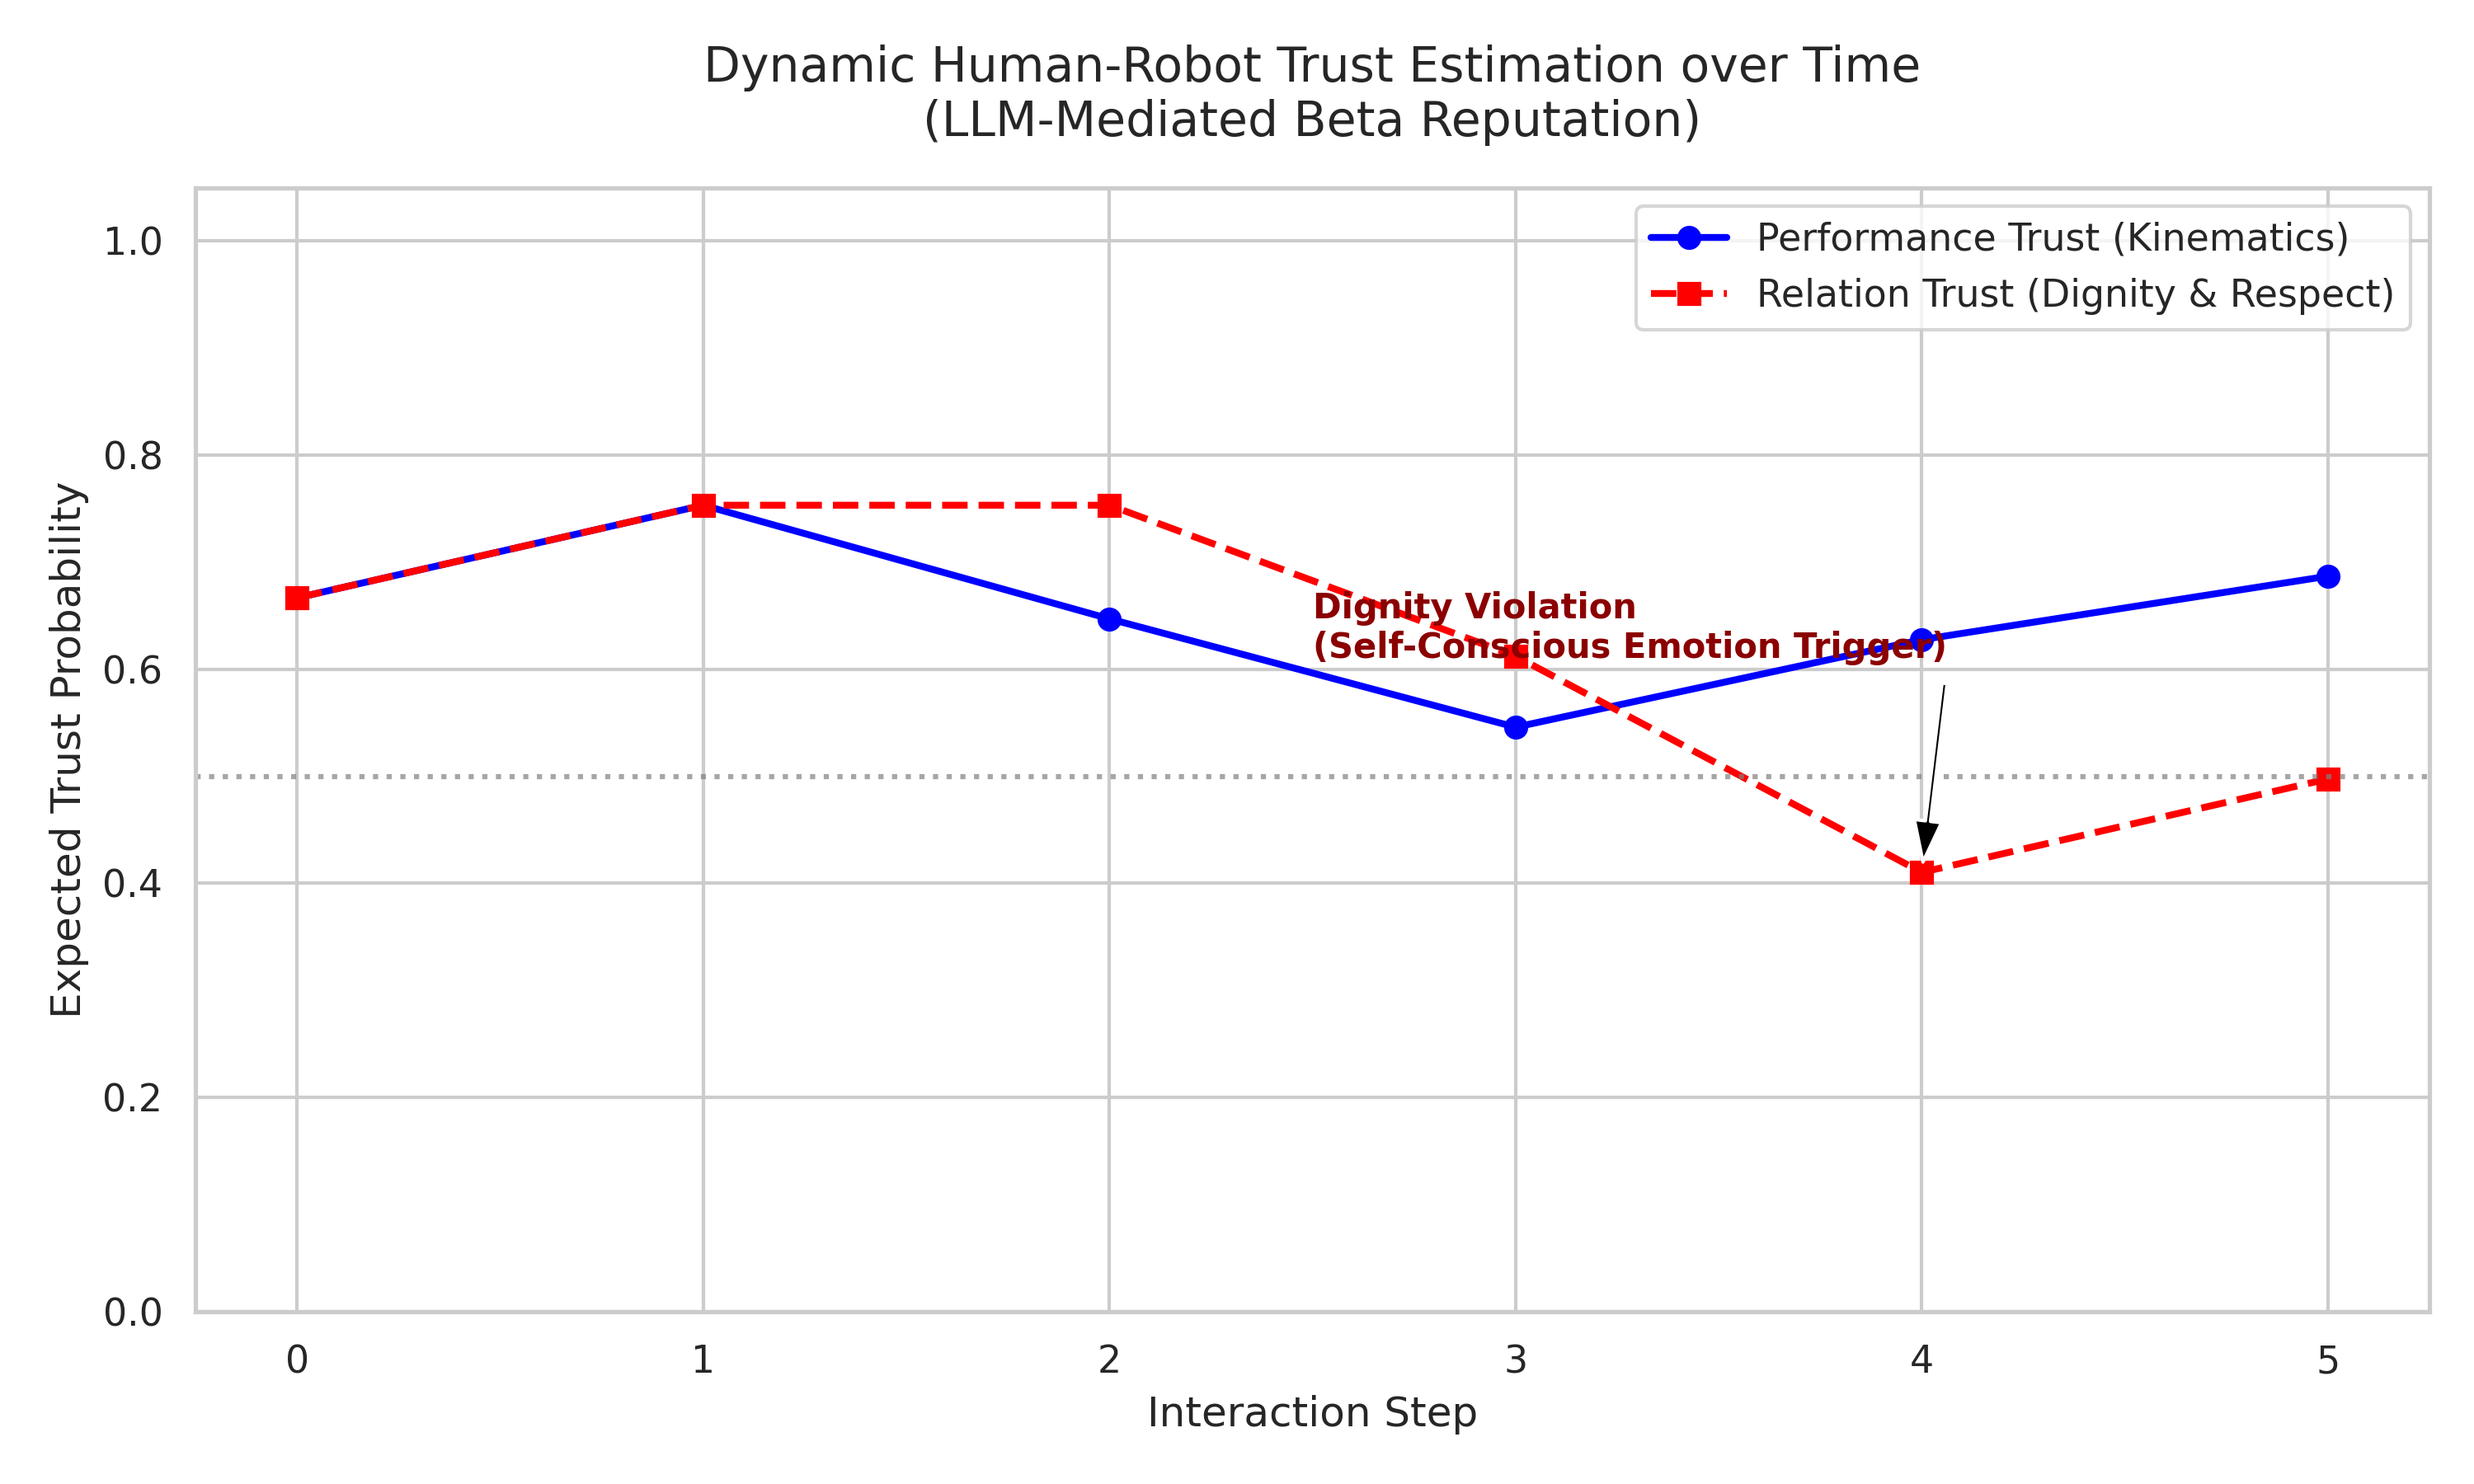
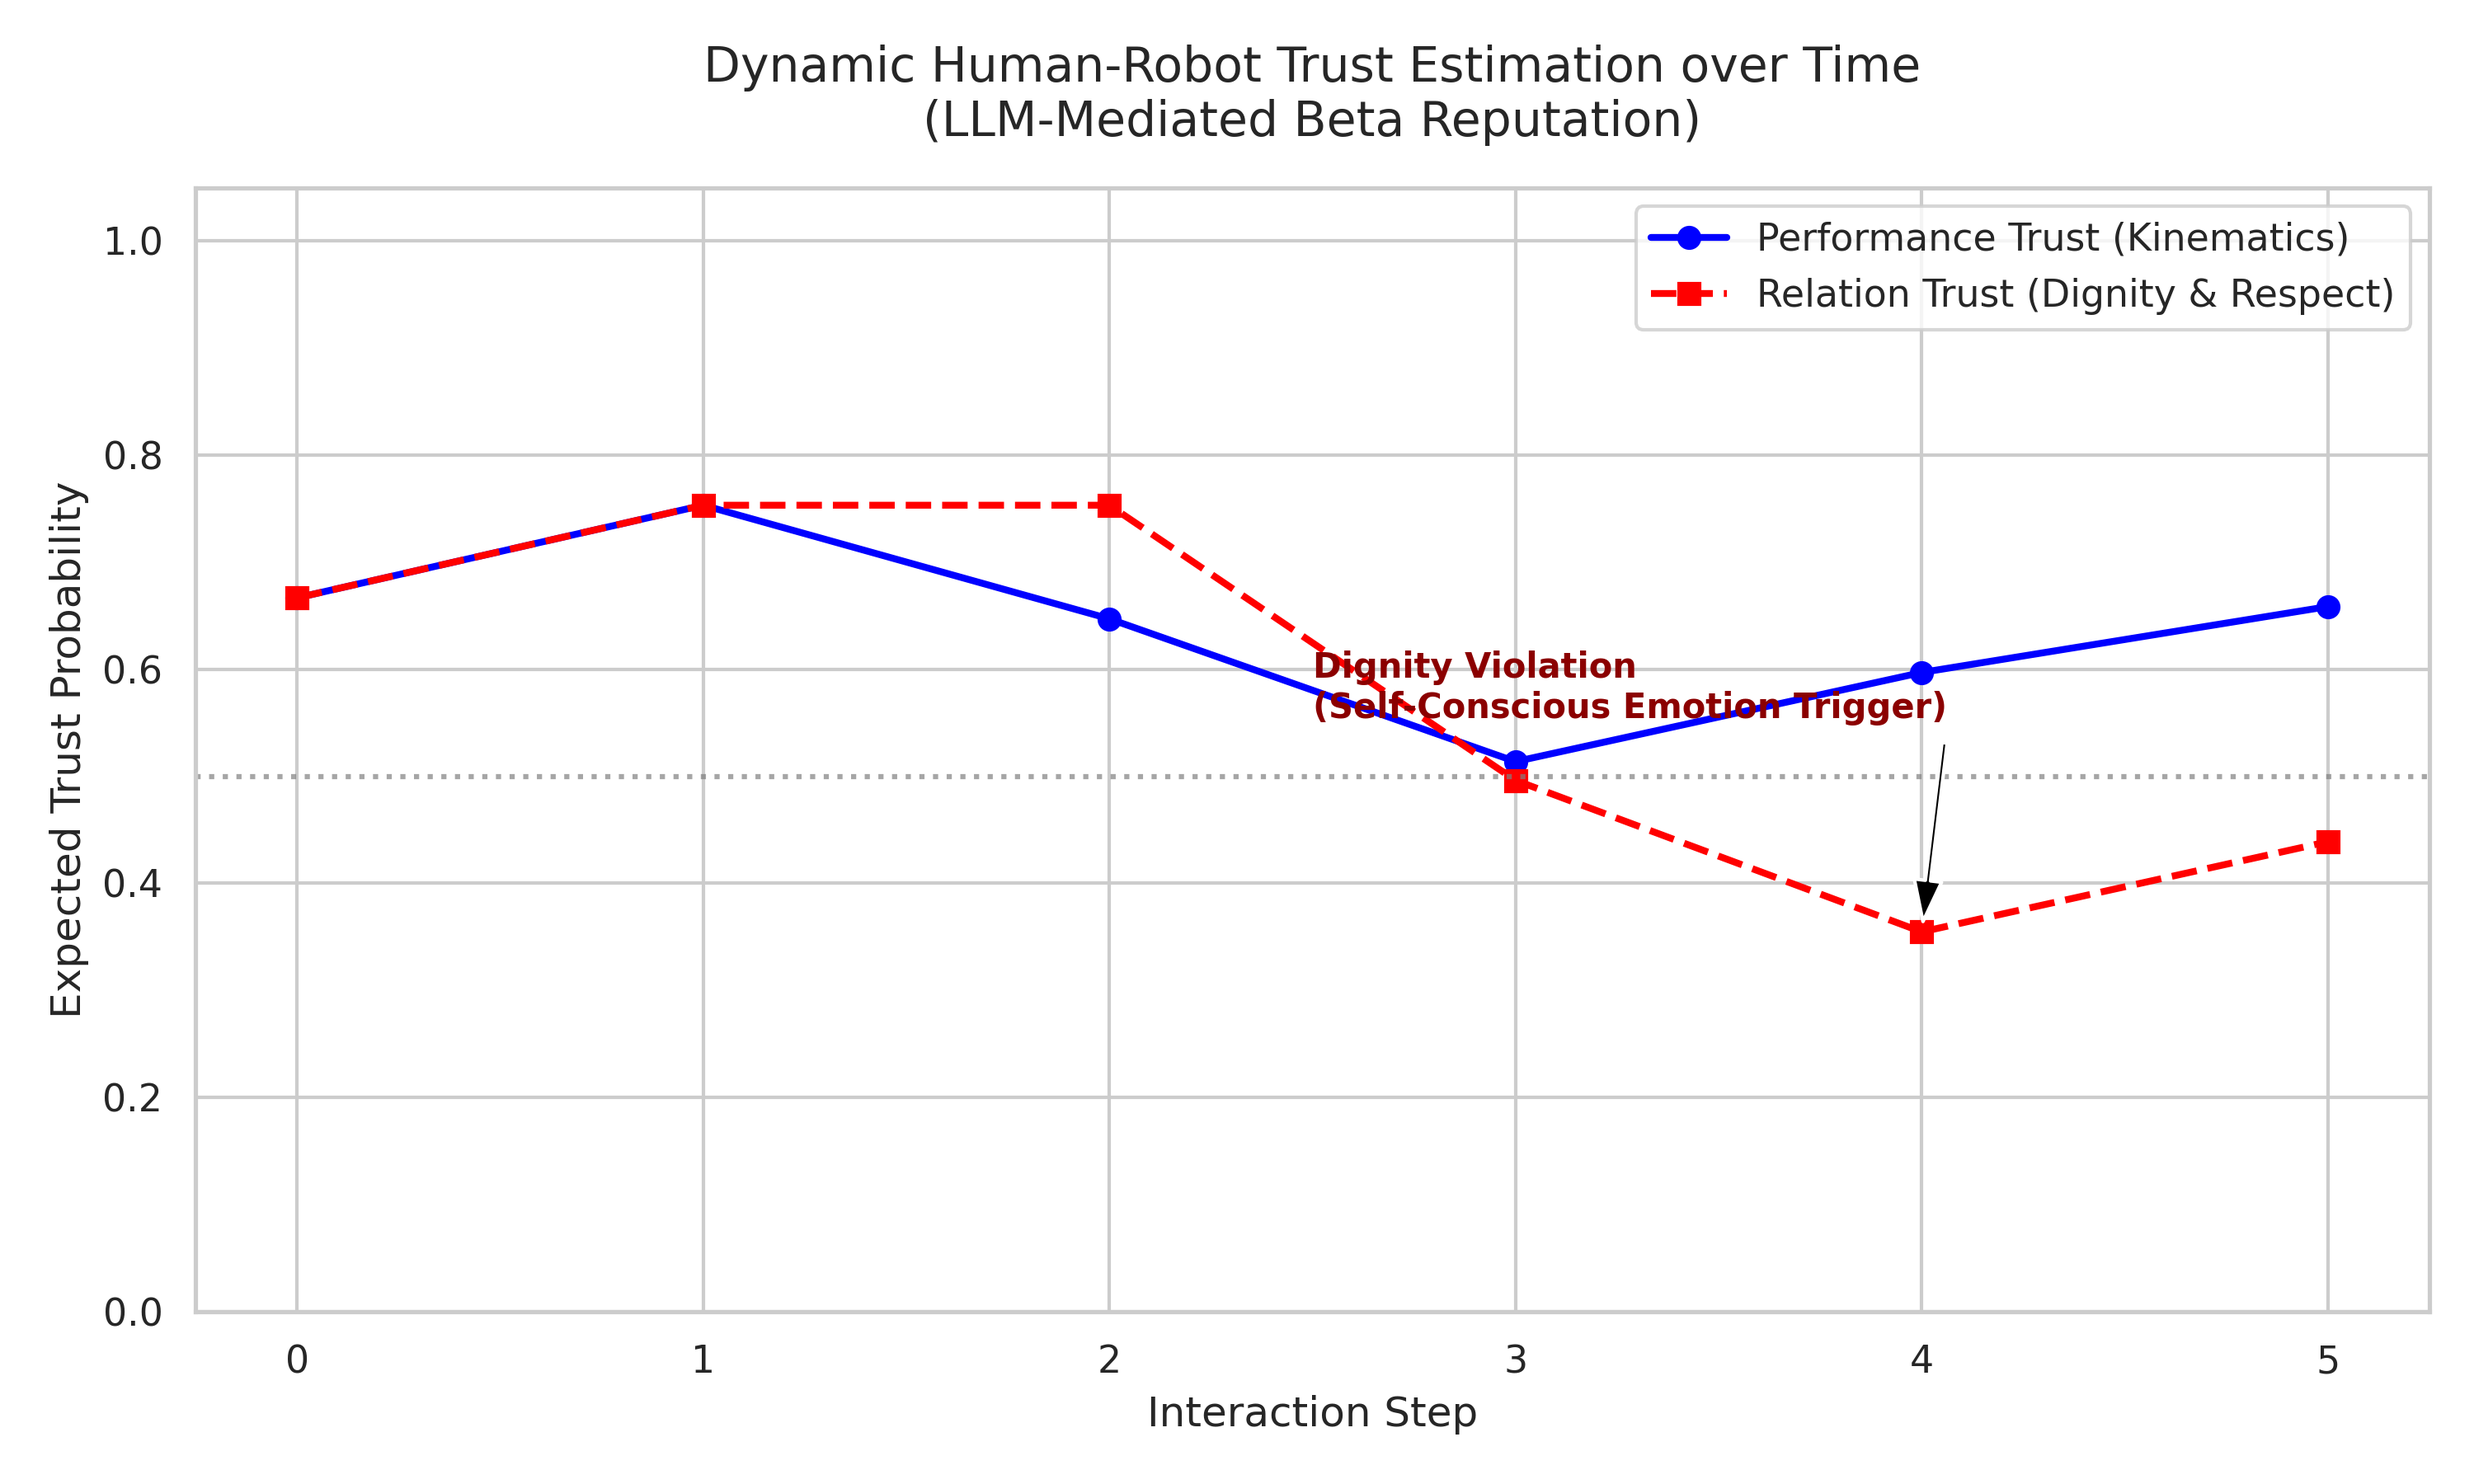
feat: added robust API retry logic & updated Edge AI (Gemma 3) architectural vision

diff --git a/README.md b/README.md
@@ -2,23 +2,23 @@
 # Neuro-Symbolic Beta Reputation Tracker for HRC
 
 ## Overview
-This repository contains a Conceptual Proof-of-Concept (PoC) demonstrating the real-time fusion of **Moral Psychology (Dignitarian Ethics)** and **Probabilistic Robotics (Beta Reputation)**. 
+This repository contains a Conceptual Proof-of-Concept (PoC) demonstrating the real-time fusion of **Moral Psychology (Dignitarian Ethics)** and **Probabilistic Robotics (Beta Reputation)**.
 
 It addresses the fundamental bottleneck in modern Human-Robot Collaboration (HRC): transitioning from passive, performance-based trust estimation to active, relation-based moral arbitration.
 
 ## The Core Concept
-Current models efficiently track *performance-based* trust using Beta distributions (e.g., *Dagdanov, Andrejevic, Liu, 2025*), but struggle to quantify *relation-based* trust. Meanwhile, moral psychology emphasizes that dignity violations involve the triggering of self-conscious emotions like humiliation (*Andrejevic et al., 2025*). 
+Current models efficiently track *performance-based* trust using Beta distributions (e.g., *Dagdanov, Andrejevic, Liu, 2025*), but struggle to quantify *relation-based* trust. Meanwhile, moral psychology emphasizes that dignity violations involve the triggering of self-conscious emotions like humiliation (*Andrejevic et al., 2025*).
 
 This PoC bridges the gap:
 1. **Semantic Evaluation:** Evaluates real-time HRC scenarios, distinguishing between mechanical errors, respect violations, and dignity violations.
 2. **Mathematical Updating:** Translates the moral assessment into continuous reward/penalty scalar values, dynamically updating a Beta Reputation model.
 
 ## 🚀 The Edge AI Vision: Local LLMs for Zero-Latency Robotics
-*Note: This specific Python simulation utilizes the Cloud Gemini API as a high-level proxy to demonstrate the logical architecture.* 
+*Note: This specific Python simulation utilizes the Cloud Gemini API as a high-level proxy to demonstrate the logical architecture.*
 
-However, relying on Cloud APIs is an anti-pattern for real-time, physical robotics due to latency and connectivity constraints. In the fully realized PhD project, this architecture is designed to run entirely locally at the edge. 
+However, relying on Cloud APIs is an anti-pattern for real-time, physical robotics due to latency and connectivity constraints. In the fully realized PhD project, this architecture is designed to run entirely locally at the edge.
 
-We propose fine-tuning highly optimized, open-weight Edge LLMs (such as **Google's Gemma 4** or **Microsoft's Phi-4(-Mini)**) specifically on dignity/humiliation datasets. Deployed on hardware like the **NVIDIA Jetson Orin NX**, this will allow for ultra-low latency (<100ms), offline, and privacy-preserving moral arbitration in a closed-loop with multimodal physiological inputs (EEG/TDA).
+We propose fine-tuning highly optimized, open-weight Edge LLMs (such as **Google's Gemma 3 4B** or **Microsoft's Phi-4-Mini**) specifically on dignity/humiliation datasets. Deployed on hardware like the **NVIDIA Jetson Orin NX**, this will allow for ultra-low latency (<100ms), offline, and privacy-preserving moral arbitration in a closed-loop with multimodal physiological inputs (EEG/TDA).
 
 ## Results Visualization
 ![Trust Dynamics](trust_dynamics_plot.png)
